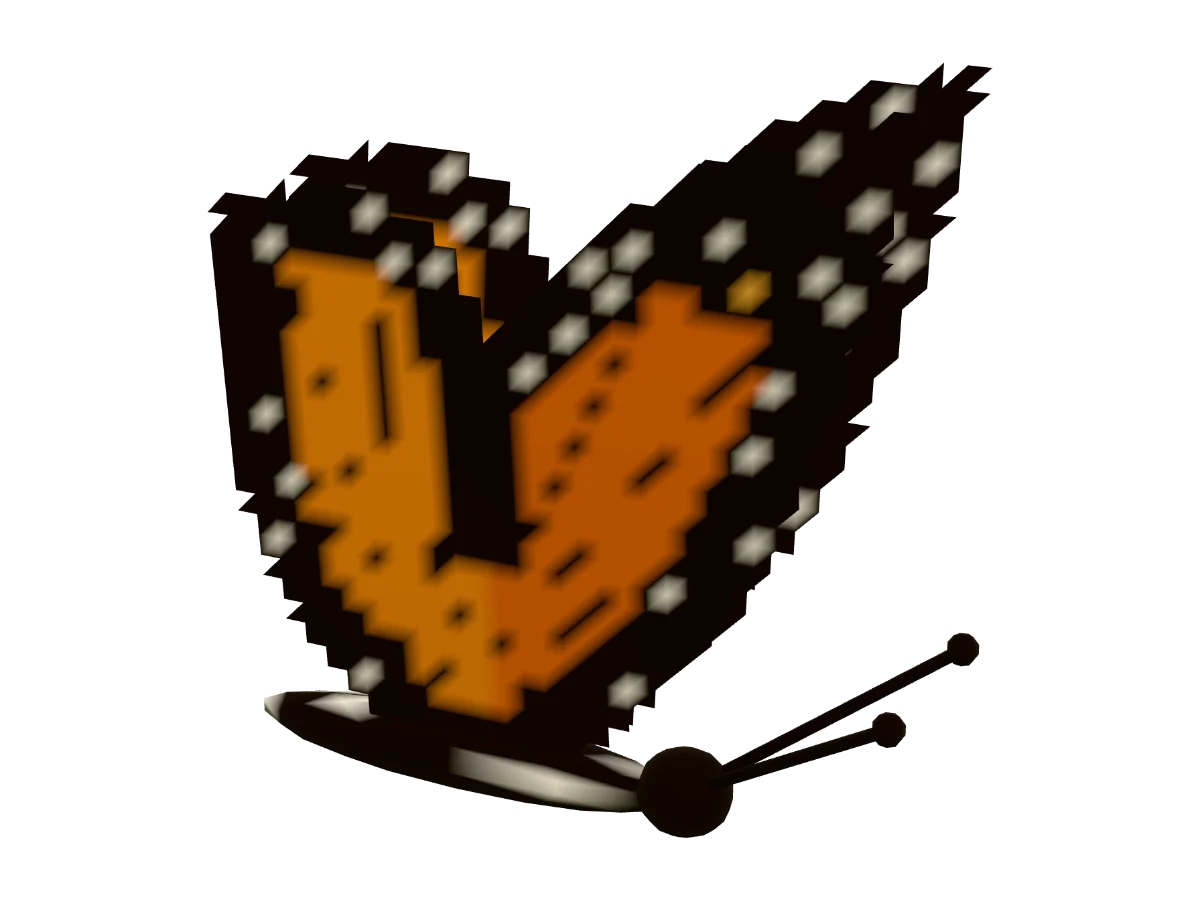
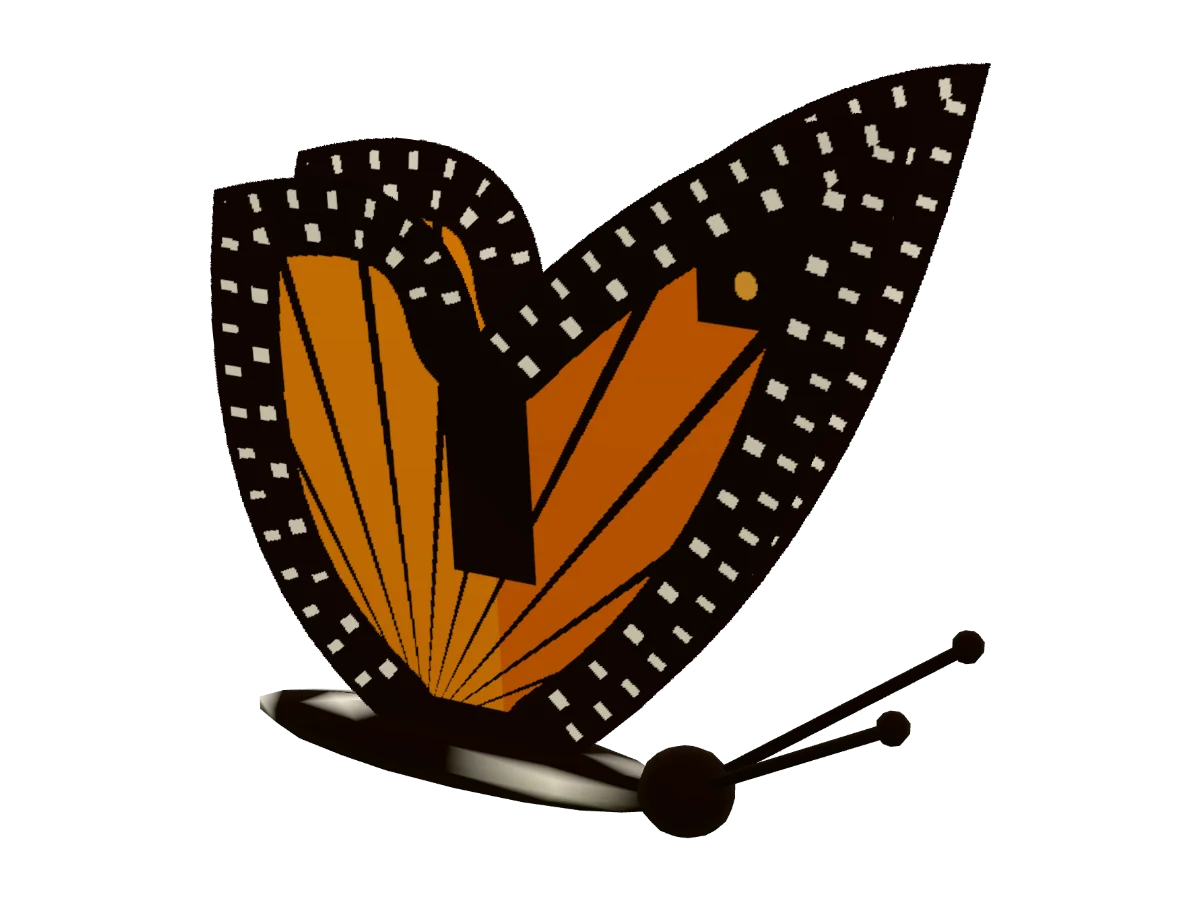
Field guide: butterfly portraits with wings on a finer grid, so their outlines, veins and spots stay smooth (the game keeps its own grid)

Changed region(s): [[0.1542, 0.0622, 0.8325, 0.84], [0.7708, 0.6844, 0.8325, 0.7467], [0.7092, 0.7778, 0.7708, 0.84]]

diff --git a/js/render3d/animals/winged-animals.js b/js/render3d/animals/winged-animals.js
@@ -91,10 +91,14 @@ function marginDist(edge, x, y) {
 // veins, spots and bars need vertices to land on).
 const inWing = (edge, x, y) => { let c = false; for (let k = 0, j = edge.length - 1; k < edge.length; j = k++) { const [ax, ay] = edge[k], [bx, by] = edge[j]; if ((ay > y) !== (by > y) && x < (bx - ax) * (y - ay) / (by - ay) + ax) c = !c; } return c; };
 const wingCache = new Map();
+// Grid density: 1 in the game; the website's field-guide portraits ask for more, since a wing filling
+// a large picture shows each grid cell in its outline and spots.
+let wingDetail = 1;
+export function setWingDetail(n) { wingDetail = n; }
 function butterflyWing(side, tails) {
-  const key = side + ':' + !!tails;
+  const key = side + ':' + !!tails + ':' + wingDetail;
   if (wingCache.has(key)) return wingCache.get(key);
-  const edge = wingEdge(tails), NX = 44, NY = 32, x0 = -0.7, x1 = 0.66, y1 = 1.0;
+  const edge = wingEdge(tails), NX = 44 * wingDetail, NY = 32 * wingDetail, x0 = -0.7, x1 = 0.66, y1 = 1.0;
   const pos = [];
   const P2 = (i, j) => [x0 + (x1 - x0) * i / NX, y1 * j / NY];
   for (let i = 0; i < NX; i++) for (let j = 0; j < NY; j++) {

diff --git a/tools/field-guide-portraits.html b/tools/field-guide-portraits.html
@@ -7,6 +7,9 @@
 // tools/capture-field-guide.mjs calls window.fieldGuidePortraits(list, scale).
 import { setBiome, mapCatalog } from '../js/biome.js';
 import { renderPortrait, renderPlants, setPortraitScale } from '../js/render3d/portraits.js';
+import { setWingDetail } from '../js/render3d/animals/winged-animals.js';
+// Butterfly wings on a finer grid than the game's, so their edges and spots stay smooth this large.
+setWingDetail(14);
 // Crop to what was drawn, with a margin, in a 4:3 frame (the renderer leaves much of its frame empty),
 // at each output size: [width, height] pairs, largest first.
 function crop(src, sizes) {

diff --git a/AGENTS.md b/AGENTS.md
@@ -84,7 +84,7 @@ New decisions take the next unused number, start with `## Rules` (5–15 lines) 
 
 Reference: [PostHog player performance lookups](docs/posthog-player-perf.md).
 
-Website (secondgrowth.earth, `website/`): the plan is [docs/website-plan-2026-11.md](docs/website-plan-2026-11.md). Recapture stills with `tools/capture-site-content.mjs` (then `--maps=<all seven> --moments`) and `tools/capture-header-review.mjs`, under `nice -n 15`; look at each image before keeping it. The tracking lens shows in keystone stills of climbers (Sumatra). Since the lens fix (afea588, PR 91) the climber's branch shows through the leaves, so the orangutan sits on its branch; the lens's ragged rim on the canopy above is still visible. `play/?map=<id>` opens the game's start screen on that map (`main.js`); each landscape on the homepage links there. Preview the built site at `http://localhost:8347/dist/website/` after `node tools/website-check.mjs`. Video loops: `nice -n 15 node tools/capture-site-video.mjs` regenerates every clip in `tools/website-video-clips.mjs` (`--clips=a,b` for some, `--vertical` for 9:16 versions) into `website/review-media/video/` with `video-provenance.json`, in under a minute on the M5. It films the production renderer frame by frame at 30 fps on the GPU and encodes in headless Chrome with WebCodecs (H.264 MP4, VP9 WebM; no ffmpeg), refilming at a lower bitrate when a file passes 4.6 MB; look at its sample frames in `dist/website-video-frames/` and the clips at `tools/website-video-review.html` (the dev server now answers byte ranges, which Safari needs for video). Gotchas: a crossfade loop needs a `closed` camera path, or the dissolve shows two views of the land at once, and a moment whose animals walk off loops with a cut (`loop: 'none'`); the calendar is held while filming so no daily plant redraw lands mid-shot. `website-check` validates the video hashes and the 5 MB cap and warns when any site media was captured more than 30 days or 80 game commits before the current game. The landing page plays that footage: the hero flyover, the scroll-played descent (mouse and wide screen; elsewhere a plain loop) and the keystone reel, all started by `site.js` after load and never with reduced motion or Save-Data. Each clip sits over a lazy picture of its first frame, because a `poster` attribute downloads before the hero. Seeking needs byte ranges: a `tools/serve.py` started before range support was added can't seek. A hidden preview pane runs no animation frames or observers, so take a screenshot to make the page paint before reading its state. Field guide (`/guide/`, a page per species): `tools/build-website.mjs` generates it from the map catalogs (`tools/field-guide-data.mjs`, `tools/build-field-guide.mjs`), so a new species gets a page on the next deploy, but it needs a portrait first: `nice -n 15 node tools/capture-field-guide.mjs --only=<slug>` (the game's field-guide renderer at 8×, `setPortraitScale`, saved as a 1200×900 portrait and a 480×360 card; whole set a few minutes), or `website-check` fails. Calls come from `MAP_RECORDINGS` birds or a recording named for the species. Each landscape's guide colour and portrait stage are `[data-land="<map id>"]` in `website/guide.css` (a new map needs one, and a `review-media/landscape-<id>.jpg` still for its banner); `guide.js` runs the index filters and the call player, and every page works without it.
+Website (secondgrowth.earth, `website/`): the plan is [docs/website-plan-2026-11.md](docs/website-plan-2026-11.md). Recapture stills with `tools/capture-site-content.mjs` (then `--maps=<all seven> --moments`) and `tools/capture-header-review.mjs`, under `nice -n 15`; look at each image before keeping it. The tracking lens shows in keystone stills of climbers (Sumatra). Since the lens fix (afea588, PR 91) the climber's branch shows through the leaves, so the orangutan sits on its branch; the lens's ragged rim on the canopy above is still visible. `play/?map=<id>` opens the game's start screen on that map (`main.js`); each landscape on the homepage links there. Preview the built site at `http://localhost:8347/dist/website/` after `node tools/website-check.mjs`. Video loops: `nice -n 15 node tools/capture-site-video.mjs` regenerates every clip in `tools/website-video-clips.mjs` (`--clips=a,b` for some, `--vertical` for 9:16 versions) into `website/review-media/video/` with `video-provenance.json`, in under a minute on the M5. It films the production renderer frame by frame at 30 fps on the GPU and encodes in headless Chrome with WebCodecs (H.264 MP4, VP9 WebM; no ffmpeg), refilming at a lower bitrate when a file passes 4.6 MB; look at its sample frames in `dist/website-video-frames/` and the clips at `tools/website-video-review.html` (the dev server now answers byte ranges, which Safari needs for video). Gotchas: a crossfade loop needs a `closed` camera path, or the dissolve shows two views of the land at once, and a moment whose animals walk off loops with a cut (`loop: 'none'`); the calendar is held while filming so no daily plant redraw lands mid-shot. `website-check` validates the video hashes and the 5 MB cap and warns when any site media was captured more than 30 days or 80 game commits before the current game. The landing page plays that footage: the hero flyover, the scroll-played descent (mouse and wide screen; elsewhere a plain loop) and the keystone reel, all started by `site.js` after load and never with reduced motion or Save-Data. Each clip sits over a lazy picture of its first frame, because a `poster` attribute downloads before the hero. Seeking needs byte ranges: a `tools/serve.py` started before range support was added can't seek. A hidden preview pane runs no animation frames or observers, so take a screenshot to make the page paint before reading its state. Field guide (`/guide/`, a page per species): `tools/build-website.mjs` generates it from the map catalogs (`tools/field-guide-data.mjs`, `tools/build-field-guide.mjs`), so a new species gets a page on the next deploy, but it needs a portrait first: `nice -n 15 node tools/capture-field-guide.mjs --only=<slug>` (the game's field-guide renderer at 8×, `setPortraitScale`, saved as a 1200×900 portrait and a 480×360 card, butterfly wings on a 14× finer grid via `setWingDetail`; whole set a few minutes), or `website-check` fails. Calls come from `MAP_RECORDINGS` birds or a recording named for the species. Each landscape's guide colour and portrait stage are `[data-land="<map id>"]` in `website/guide.css` (a new map needs one, and a `review-media/landscape-<id>.jpg` still for its banner); `guide.js` runs the index filters and the call player, and every page works without it.
 
 Performance budget: [2026-10-23 review](docs/performance-review-2026-10-23.md) has where a frame goes, the per-part ceilings for new graphics and simulation, and the open fixes (young climbing primates, daily plant redraw, daily environment update). Measure a new feature with `node tools/play-profile.mjs [maps] [quality] [years]` before and after: an organically grown game through the real frame loop, simulation vs drawing vs GPU.
 `tools/perf-guard-check.mjs` (headless CI) fails when draw calls, triangles, plant or animal instances, or plant regions rebuilt rise over 10% on a seeded fixture; if the rise is intended, check it against the budget, run it with `--update` and commit `tools/perf-guard-baseline.json` with the change. It counts geometry only, not shader or pixel cost.
